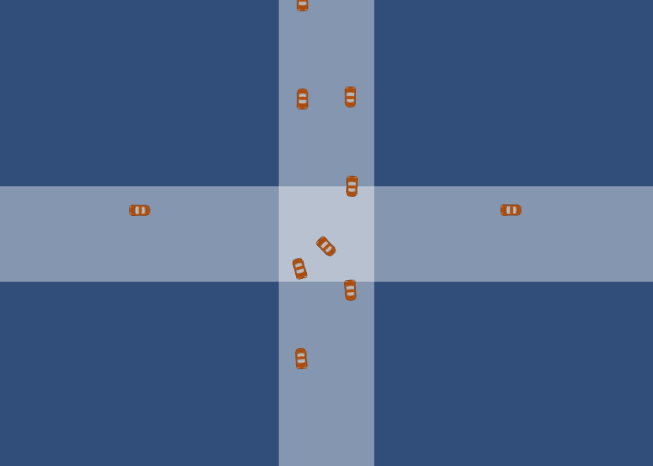
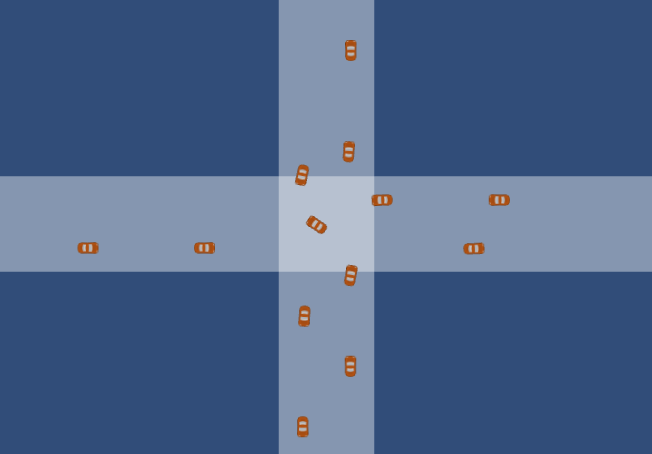
image

diff --git a/report/c/sysdesc.tex b/report/c/sysdesc.tex
@@ -1,3 +1,11 @@
+\begin{figure}
+\centering
+\includegraphics[height=90px]{img/intersection_tl}
+\includegraphics[height=90px]{img/intersection}
+\caption{The simulation environment, with and without traffic lights}
+\label{fig:intersection}
+\end{figure}
+
 Post-research we were in a limbo, since the landscape of tooling that can be used for setting up experiments in this field of studies is  quite  vast.
 However we decided early in the process that we would mainly work with software simulation, due to the fact that robots have a higher cost and getting the amount of agents that makes these types of studies interesting is somewhat higher than a dozen of robots.
 
